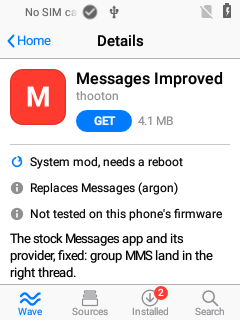
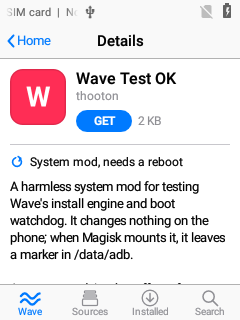
Mockups: ten phone frames re-shot from real data on the rooted phone (Wave 0.7.20): Check Again granted through Magisk's prompt with the d-pad, a mod's details, queue and reboot, Reboot Now, and a real watchdog turn-off; 07's note says which rows that closes

diff --git a/docs/tasks/README.md b/docs/tasks/README.md
@@ -67,7 +67,7 @@ Four agents can work without touching the same files: one on the app's core
 
 - **Site quality pass:** `e49775d` stages 21 public assets (~99 kB raw, ~45 kB individually gzip-compressed); landing is ~27 kB and has no JavaScript. The Home preview is pixel-identical lossless WebP (11.5 kB, down from 22.2 kB). All six pages passed strict HTML5 parsing and the staged link/import/size checks; the site and USB replay suites pass. Chromium at 240×320 verified all skip links, keyboard-only setup including invalid-field focus and download, and arrow-only access to primary controls with native spatial navigation enabled. The guide tells visitors from Wave that it cannot create a backup, patch, flash, or grant root. Target vs shipped scope is explicit (`dab674c`). GitHub Wave links remain pending the owner cutover; device USB, hosted Pages and screen-reader hardware were not tested in this pass.
 
-- **07 done:** `com.wave.xp3.app` (`641c311` … `c322082`, Wave 0.7.12, code 19): tabs Wave, Sources, Installed, Search; source, section, Details, Add a Source, Confirm, the queue, Root, watchdog and reboot dialogs, over agent 2's `WaveData`. `MainActivity` (the Updater list) is off the launcher. Debug builds take `--es fixture browse|reboot|errors|offline|uptodate|noroot` (and `--es query`) from `src/debug/.../FakeWaveData`, which changes nothing on the phone; see `app/SPEC.md`. Every mockup frame has a matching 0.7.12 screenshot from 8516067e in `site/mockups/phone/` (48 shots, `site/mockups/phone-frames.py`; d-pad keys and `input text` only), compared side by side with `shots/`; differences are listed in `site/mockups/CHECKLIST.md`. Agent 5's suite (above) reaches every action with the d-pad alone. Installing 0.7.6 release over 0.1.0 (04's Updater-derived build, same signer) kept working: the launcher resolves to `.app.WaveActivity`, no crash, Home/Sources/Installed drawn. A real app install from a real HTTPS source on stock went through Confirm and the queue (agent 1, Wave Demo, including a hash failure). On the rooted phone (agent 1, ROOT-TESTING 06, Wave 0.7.17 to 0.7.19) the screens behaved as specified with real root: the turned-off alert, Turn On, Remove It, Reboot Now rebooting, mod install, update and removal across reboots, and Installed's Remove without Android's prompt. Magisk shows its own "granted Superuser rights" toast each time Wave uses root. Long pages are recycled lists since `0fdc544` (Wave 0.7.16, `app.Feed`): with the `big` fixture's 500 packages All Packages opens in 0.3 s instead of 6.1 s, with 190 views instead of 3,642 and a 5.5 MB Java heap instead of 12.4 MB; cold start unchanged (release 532 ms vs 542 ms); `07-long-list` passes. Scrolling it got faster in Wave 0.7.20 (agent 1; 499 d-pad Downs in one `input` call, gfxinfo after a reset, on 8516067e): frames 15/31/61 ms at the 50th/90th/99th percentile with 37% janky became 12/21/29 ms with 20% janky, the 499 Downs take 11 s instead of 21 s, and PSS at the bottom is 29 MB instead of 58 MB. Holding Down for 20 s: 16/34/77 ms with 50% janky became 11/19/30 ms with 14%. Causes fixed: each Down's forced layout of every row (the selection now follows the focus at the next layout), a scroll in two steps that detached and reattached a row, every key going through the input method (T9) first, a lettered tile drawn per package (now shared by colour and letter), new Paths per draw, an extra text measure from baseline alignment, a stat per icon lookup, and background news rebuilding the list (now rebinding only the changed rows on screen). Screens are pixel-identical to 0.7.19 below the status bar. In 0.7.21 browse rows keep their measurement (every one is the same size, and the detail line is now as wide as the name, so a rebind no longer asks for a measure): 99th percentile 24, 27 and 27 ms over three runs instead of 29, with 14 to 17% janky. Warming the next row's text while idle was tried and didn't help, so it isn't in.
+- **07 done:** `com.wave.xp3.app` (`641c311` … `c322082`, Wave 0.7.12, code 19): tabs Wave, Sources, Installed, Search; source, section, Details, Add a Source, Confirm, the queue, Root, watchdog and reboot dialogs, over agent 2's `WaveData`. `MainActivity` (the Updater list) is off the launcher. Debug builds take `--es fixture browse|reboot|errors|offline|uptodate|noroot` (and `--es query`) from `src/debug/.../FakeWaveData`, which changes nothing on the phone; see `app/SPEC.md`. Every mockup frame has a matching 0.7.12 screenshot from 8516067e in `site/mockups/phone/` (48 shots, `site/mockups/phone-frames.py`; d-pad keys and `input text` only), compared side by side with `shots/`; differences are listed in `site/mockups/CHECKLIST.md`. Agent 5's suite (above) reaches every action with the d-pad alone. Installing 0.7.6 release over 0.1.0 (04's Updater-derived build, same signer) kept working: the launcher resolves to `.app.WaveActivity`, no crash, Home/Sources/Installed drawn. A real app install from a real HTTPS source on stock went through Confirm and the queue (agent 1, Wave Demo, including a hash failure). On the rooted phone (agent 1, ROOT-TESTING 06, Wave 0.7.17 to 0.7.19) the screens behaved as specified with real root: the turned-off alert, Turn On, Remove It, Reboot Now rebooting, mod install, update and removal across reboots, and Installed's Remove without Android's prompt. Magisk shows its own "granted Superuser rights" toast each time Wave uses root. Agent 3 then walked the rooted paths through Wave's screens alone (Wave 0.7.20 at `15dc337`, a debug build whose scratch copy only trusts a localhost certificate and points the default source at a local HTTPS Git source holding `app/root-tests`' two test mods). Check Again raised Magisk's prompt and was granted with the d-pad (Down, Right, OK), and Wave said "Wave has root". Installing Wave Test OK went GET ("System mod, needs a reboot"), Confirm ("2 KB to download, then a reboot"), Installing, Done (Later, Reboot Now). The Reboot to Finish rows on Home and Installed followed, and the first module plan installed the watchdog. Wave Test Broken, armed, was installed alongside, and Home's REBOOT opened "Reboot Now?" on Later; Reboot restarted the phone. Its boot was held, the watchdog rebooted once after 300 s and turned off both new mods (it cannot tell which of two new ones stopped the boot), and Wave showed one "Turned off" alert per mod and Turned off rows. Both were removed through Installed's menu (Confirm "Needs a reboot", Done "Removed when the phone restarts.", Reboot Now) and were gone after the reboots. This closes these rows of the frame list (`site/mockups/phone/`, now real data): no-root, details-module, queue-confirm, queue-progress, queue-reboot, wave-home-reboot, installed-reboot, x-reboot-dialog, error-watchdog and error-watchdog-row, plus `x-magisk-grant`. Not walked by agent 3: Turn On (agent 1 saw it work). Long pages are recycled lists since `0fdc544` (Wave 0.7.16, `app.Feed`): with the `big` fixture's 500 packages All Packages opens in 0.3 s instead of 6.1 s, with 190 views instead of 3,642 and a 5.5 MB Java heap instead of 12.4 MB; cold start unchanged (release 532 ms vs 542 ms); `07-long-list` passes. Scrolling it got faster in Wave 0.7.20 (agent 1; 499 d-pad Downs in one `input` call, gfxinfo after a reset, on 8516067e): frames 15/31/61 ms at the 50th/90th/99th percentile with 37% janky became 12/21/29 ms with 20% janky, the 499 Downs take 11 s instead of 21 s, and PSS at the bottom is 29 MB instead of 58 MB. Holding Down for 20 s: 16/34/77 ms with 50% janky became 11/19/30 ms with 14%. Causes fixed: each Down's forced layout of every row (the selection now follows the focus at the next layout), a scroll in two steps that detached and reattached a row, every key going through the input method (T9) first, a lettered tile drawn per package (now shared by colour and letter), new Paths per draw, an extra text measure from baseline alignment, a stat per icon lookup, and background news rebuilding the list (now rebinding only the changed rows on screen). Screens are pixel-identical to 0.7.19 below the status bar. In 0.7.21 browse rows keep their measurement (every one is the same size, and the detail line is now as wide as the name, so a rebind no longer asks for a measure): 99th percentile 24, 27 and 27 ms over three runs instead of 29, with 14 to 17% janky. Warming the next row's text while idle was tried and didn't help, so it isn't in.
 
 - **Device UI QA (07 evidence):** `tools/qa/` (`bbcb698`; 10 host tests) drives the phone with d-pad keys only, takes a 240×320 capture per step, checks text through uiautomator, focus movement, screen change and logcat crash/ANR, and writes an HTML report. Scenarios name their debug fixture; `python3 tools/qa/suite.py` runs them all. On Wave 0.7.6 (code 13, debug fixtures) on 8516067e: tabs, source > section > package > Confirm plan > Back out, Search (`mus`) > details > Back, Installed (Update All, row menu), errors (watchdog alert, red source row), reboot dialog (never confirmed), offline Sources all passed with no Wave crash or ANR and the temporary install removed each time. Suite: `.oak/tmp/wave-qa/suite-076/index.html`. Earlier stock 0.1.0 and 0.3.0 passed offline launch > MENU > BACK. On 0.7.12 (code 19) the new default-answer fixes passed too: `Reboot Now?` starts on Later (OK closes it, no reboot toast) and `Remove XP3 Games?` starts on Cancel, and a second queue after a failed Mail run shows no stale "wasn't installed" alert (`.oak/tmp/wave-qa/suite-0712/index.html`). Final run on Wave 0.7.16 (code 23, debug APK built from a clean export of `0fdc544`, SHA-256 `99624a5e…cfd`): all 11 fixture scenarios passed, including `07-long-list` (500-row All Packages, Down ×498 to Juniper 500, Back keeps the place) and the stale-alert and default-answer checks, no Wave crash or ANR, temporary install removed each time. Suite `.oak/tmp/wave-qa/suite-0716-final/index.html` (9 PASS; `07-tabs` failed at launch and `07-stale-alert` at Canvas details with Wave not foreground while the phone was shared with the rooting work); reruns passed: `suite-0716-rerun` (tabs) and `suite-0716-rerun3` (stale-alert, after harness timing fixes `1523f69`, `1d9d3e6`). The first-run failures were not reproduced and their cause is not proven. All phone use goes through `tools/qa/phone-run.sh` (`5f64ab9`). The harness cannot show that a screen looks right (mockup comparison does), that an install happened, or anything needing root; see its README. Not covered by it: Add a Source typing (agent 3's own walk), a real install, rooted behaviour.
 

diff --git a/site/mockups/CHECKLIST.md b/site/mockups/CHECKLIST.md
@@ -24,6 +24,17 @@ items about 32px); fixture icons are lettered tiles where the mockups have
 the apps' art; the section's menu says Refresh Sources. `phone/x-*.png` are extra
 states with no frame (Remove's confirm, Reboot Now? on Later).
 
+Ten of them are real data from the rooted phone instead (Wave 0.7.20 at
+`15dc337`, Magisk 24.0): no-root, details-module, queue-confirm,
+queue-progress, queue-reboot, wave-home-reboot, installed-reboot,
+x-reboot-dialog, error-watchdog and error-watchdog-row. They come from a local
+HTTPS source holding `app/root-tests`' two test mods, after Check Again was
+granted through Magisk's prompt (`phone/x-magisk-grant.png`: the time choice
+starts focused, then Down to Deny, Right to Grant, OK). Their queues hold one
+mod, so the fixture's dependency and replaced-mod rows are only in the 0.7.12
+shots (git history, `2ac1a56`). The turned-off alert and rows come from a
+real watchdog turn-off.
+
 Budget: 24 status + 34 bar + 1 hairline + 36 tab bar leaves **225px** of
 page on a tab. A browsed package row and an Installed row are 47px (name,
 a line of detail, a capsule or chevron): 4.8 rows show. The Updater's row
